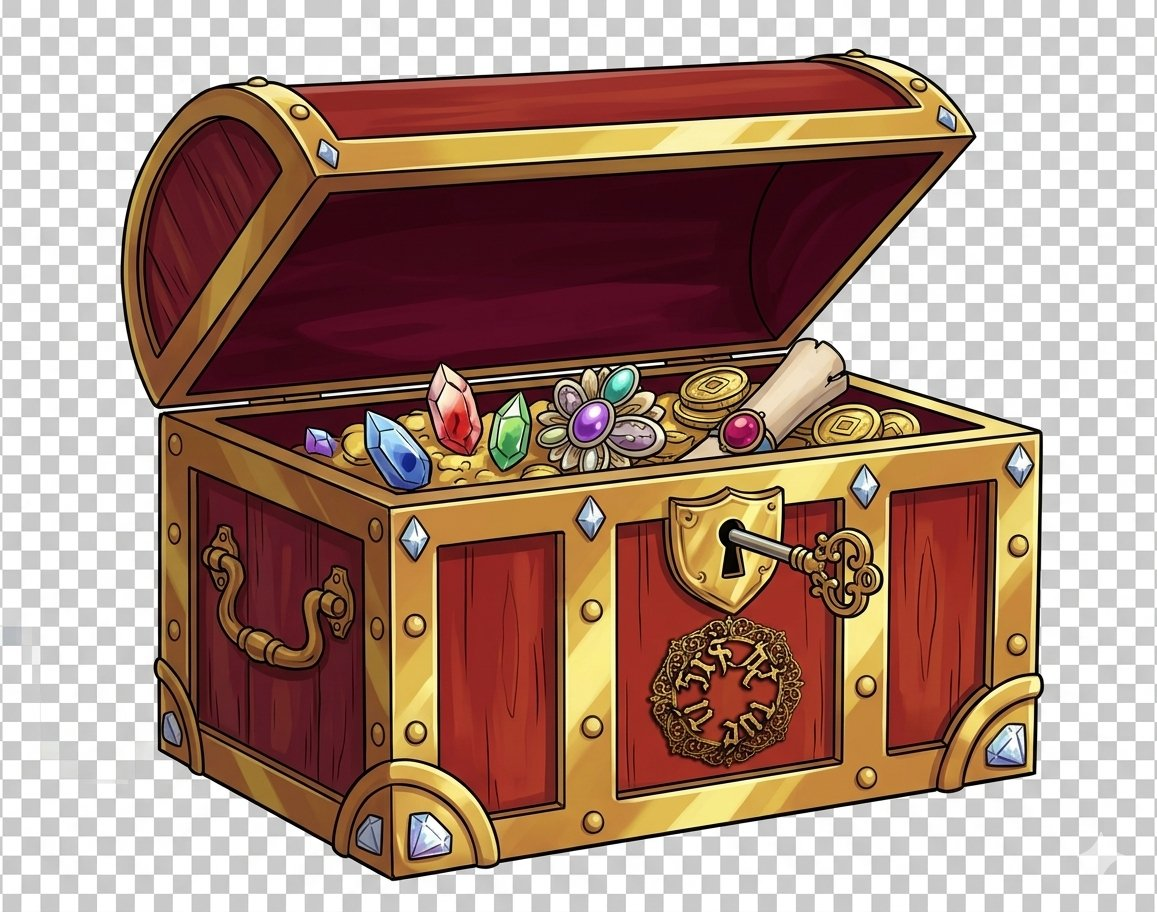
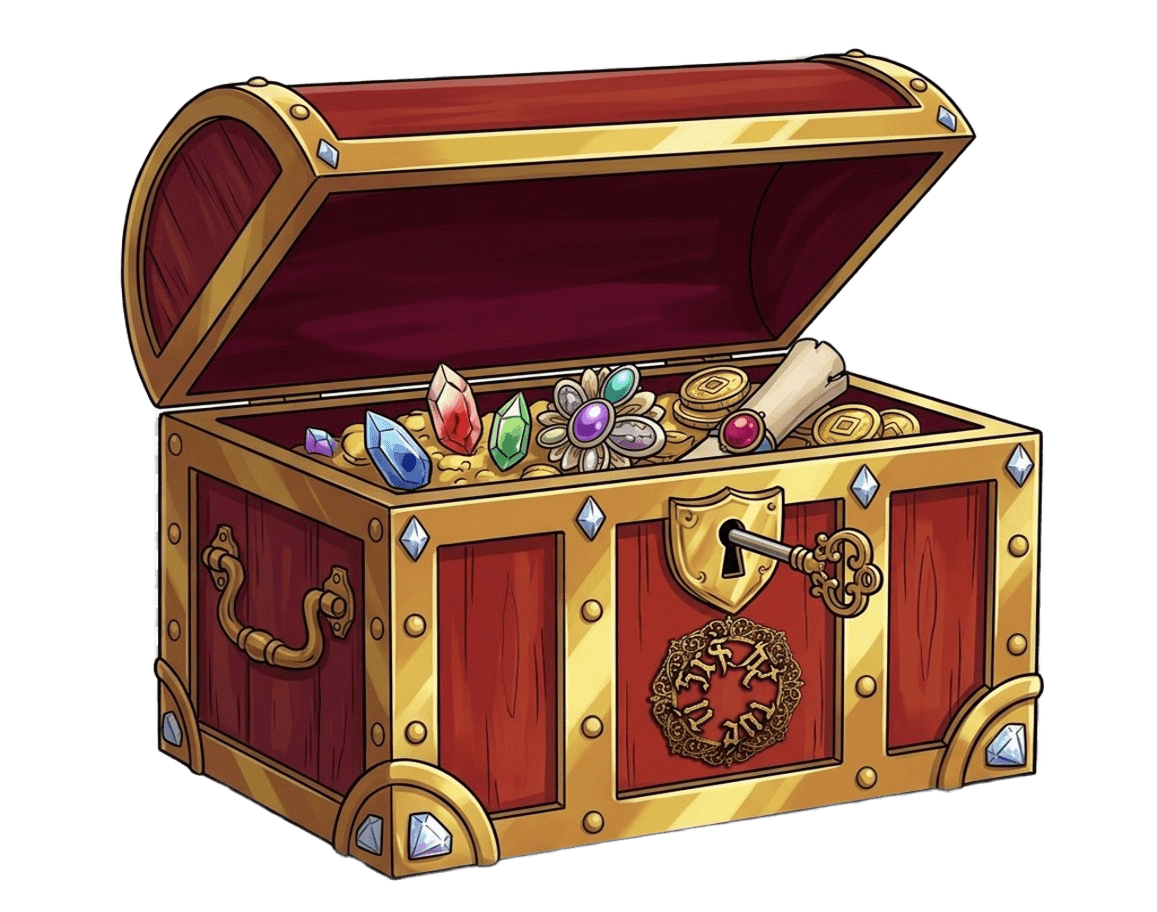
修正遊戲8.2

diff --git a/js/games/typo.js b/js/games/typo.js
@@ -249,47 +249,73 @@ export class TypoGame extends GameEngine {
    * @param {number} stars
    */
   async playCorrectAnimation(stars) {
-    const root = document.getElementById('typo-game-root');
-    if (!root) return;
+    // ── 答對動畫：closebox全螢幕 → 消失 → key1~4輪播旋轉(配open.mp3) → 消失 → openbox全螢幕 → 星星 ──
 
-    // 播放音效
+    // 播放音效（與 closebox 出現同步）
     try {
       const audio = new Audio('audio/effects/open.mp3');
       audio.play().catch(() => {});
     } catch (_e) {}
 
-    // 建立全螢幕覆蓋動畫層
+    // ── 步驟一：closebox 全螢幕出現 ──
     const overlay = document.createElement('div');
     overlay.className = 'typo-anim-overlay';
-    overlay.innerHTML = `
-      <div class="typo-anim-stage">
-        <img id="typo-anim-chest" class="typo-anim-chest typo-anim-fullscreen" src="images/closebox.png" alt="寶箱">
-        <img id="typo-anim-key-img" class="typo-anim-key-img" src="images/key.png" alt="鑰匙" style="opacity:0;">
-      </div>
-    `;
+    overlay.innerHTML = `<div class="typo-anim-stage"><img id="typo-fs-img" class="typo-fs-img" src="images/closebox.png" alt=""></div>`;
     document.body.appendChild(overlay);
 
-    const chestEl = overlay.querySelector('#typo-anim-chest');
-    const keyImg  = overlay.querySelector('#typo-anim-key-img');
-
-    // 步驟一：closebox 從小放大到接近全螢幕
-    chestEl.style.animation = 'typoChestZoomIn 0.55s cubic-bezier(.17,.67,.35,1.3) forwards';
-    await _sleep(550);
-
-    // 步驟二：鑰匙出現，慢速旋轉一圈（1.2s）
-    keyImg.style.opacity = '1';
-    keyImg.style.animation = 'typoKeySpinFull 1.2s linear forwards';
-    await _sleep(1200);
-
-    // 步驟三：closebox 換成 openbox，並展示全螢幕
-    keyImg.style.opacity = '0';
-    chestEl.style.animation = 'none';
-    chestEl.src = 'images/openbox.png';
-    chestEl.style.animation = 'typoChestOpen 0.4s ease forwards';
-    await _sleep(350);
-
-    // 步驟四：星星從寶箱飛出
+    const fsImg = overlay.querySelector('#typo-fs-img');
     const stage = overlay.querySelector('.typo-anim-stage');
+
+    // 放大入場
+    fsImg.style.animation = 'typoFsZoomIn 0.5s cubic-bezier(.17,.67,.35,1.3) forwards';
+    await _sleep(600);
+
+    // ── 步驟二：closebox 淡出消失 ──
+    fsImg.style.animation = 'typoFsFadeOut 0.3s ease forwards';
+    await _sleep(350);
+    fsImg.style.display = 'none';
+
+    // ── 步驟三：key1→key2→key3→key4→key1 輪播（模擬旋轉），共 4 格 × 200ms = 0.8s × 2圈 ──
+    const keyFrames = ['images/key1.png','images/key2.png','images/key3.png','images/key4.png'];
+    const keyEl = document.createElement('img');
+    keyEl.className = 'typo-fs-img';
+    keyEl.alt = '鑰匙';
+    keyEl.style.opacity = '0';
+    stage.appendChild(keyEl);
+
+    // 淡入
+    keyEl.src = keyFrames[0];
+    await _sleep(50);
+    keyEl.style.transition = 'opacity 0.15s';
+    keyEl.style.opacity = '1';
+    await _sleep(150);
+
+    // 輪播 2 圈（4幀 × 2 = 8步，每步 200ms）
+    const totalSteps = 8;
+    for (let i = 1; i <= totalSteps; i++) {
+      await _sleep(200);
+      keyEl.src = keyFrames[i % 4];
+    }
+    await _sleep(200);
+
+    // 鑰匙淡出
+    keyEl.style.opacity = '0';
+    await _sleep(200);
+    keyEl.style.display = 'none';
+
+    // ── 步驟四：openbox 全螢幕出現 ──
+    const openEl = document.createElement('img');
+    openEl.className = 'typo-fs-img';
+    openEl.alt = '開箱';
+    openEl.src = 'images/openbox.png';
+    openEl.style.opacity = '0';
+    stage.appendChild(openEl);
+    openEl.style.transition = 'opacity 0.3s';
+    await _sleep(30);
+    openEl.style.opacity = '1';
+    await _sleep(400);
+
+    // ── 步驟五：星星飛出 ──
     const starsCount = Math.min(Math.max(Math.round(stars * 3), 10), 24);
     for (let i = 0; i < starsCount; i++) {
       const s = document.createElement('div');
@@ -302,13 +328,12 @@ export class TypoGame extends GameEngine {
       s.style.animationDelay = `${i * 35}ms`;
       stage.appendChild(s);
     }
-
     const starEl = document.createElement('div');
     starEl.className = 'typo-star-popup';
     starEl.textContent = `+★${stars}`;
     stage.appendChild(starEl);
 
-    await _sleep(1200);
+    await _sleep(1400);
     overlay.remove();
   }
 
@@ -1159,9 +1184,7 @@ export function injectTypoStyles() {
       border-radius: 4px;
     }
     .typo-s-char.wrong-target {
-      background: #ffeaa0;
-      border: 2px dashed #f39c12;
-      border-radius: 4px;
+      /* 不顯示提示方框，避免洩漏答案 */
     }
     .typo-sentence-char {
       display: inline-block;
@@ -1221,19 +1244,11 @@ export function injectTypoStyles() {
     }
     .typo-anim-stage {
       position: relative;
-      width: min(80vw, 400px);
-      height: min(80vw, 400px);
+      width: 100vw;
+      height: 100vh;
       display: flex;
       align-items: center;
       justify-content: center;
-    }
-    .typo-anim-chest {
-      width: 85%;
-      height: 85%;
-      object-fit: contain;
-      position: relative;
-      z-index: 2;
-      filter: drop-shadow(0 8px 32px rgba(0,0,0,0.5));
     }
     .typo-fly-star {
       position: absolute;
@@ -1246,20 +1261,13 @@ export function injectTypoStyles() {
       --dist: min(40vw, 180px);
     }
 
-    @keyframes typoChestZoomIn {
-      0%   { transform: scale(0.2); opacity: 0; }
-      100% { transform: scale(1);   opacity: 1; }
+    @keyframes typoFsZoomIn {
+      0%   { transform: scale(0.15); opacity: 0; }
+      100% { transform: scale(1);    opacity: 1; }
     }
-    @keyframes typoChestOpen {
-      0%   { transform: scale(1); }
-      50%  { transform: scale(1.15) rotate(-3deg); }
-      100% { transform: scale(1.05); }
-    }
-    @keyframes typoKeyRotate {
-      0%   { transform: translate(-50%,-50%) rotate(0deg) translateX(60px); opacity: 0; }
-      30%  { opacity: 1; }
-      70%  { transform: translate(-50%,-50%) rotate(90deg) translateX(10px); opacity: 1; }
-      100% { transform: translate(-50%,-50%) rotate(90deg) translateX(0); opacity: 0; }
+    @keyframes typoFsFadeOut {
+      0%   { opacity: 1; transform: scale(1); }
+      100% { opacity: 0; transform: scale(1.05); }
     }
     @keyframes typoStarFly {
       0%   { transform: translate(-50%,-50%) rotate(var(--angle)) translateX(0); opacity: 1; }
@@ -1273,22 +1281,16 @@ export function injectTypoStyles() {
       80%     { transform: rotate(5deg); }
     }
     /* ── 鑰匙動畫 ── */
-    .typo-anim-key-img {
+    .typo-fs-img {
       position: absolute;
-      width: 55%;
-      height: 55%;
+      top: 50%;
+      left: 50%;
+      transform: translate(-50%, -50%);
+      width: min(92vw, 92vh);
+      height: min(92vw, 92vh);
       object-fit: contain;
-      z-index: 4;
+      z-index: 2;
       pointer-events: none;
-      transition: opacity 0.2s;
-    }
-    .typo-anim-fullscreen {
-      width: 90%;
-      height: 90%;
-    }
-    @keyframes typoKeySpinFull {
-      0%   { transform: translate(-50%,-50%) rotate(0deg); opacity: 1; }
-      100% { transform: translate(-50%,-50%) rotate(360deg); opacity: 1; }
     }
     .typo-chests {
       display: flex;

diff --git a/sw.js b/sw.js
@@ -17,7 +17,7 @@
  *   - 修正：只快取完整的 200 回應，206 讓瀏覽器直接使用，不存快取
  */
 
-const APP_VERSION = '1.0.59'
+const APP_VERSION = '1.0.60'
 const CACHE_NAME  = `happylearn-v${APP_VERSION}`
 
 // ── 預快取清單 ──

diff --git a/version.js b/version.js
@@ -15,4 +15,4 @@
  */
 
 // 應用程式版本號（遵循 Semantic Versioning：major.minor.patch）
-export const APP_VERSION = '1.0.59'
+export const APP_VERSION = '1.0.60'
